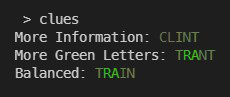
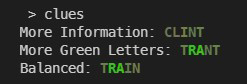
feat: Improved visual presentation, and updated docs to match.

diff --git a/wordleologist.py b/wordleologist.py
@@ -396,7 +396,7 @@ class WordleTrainer:
                 idx_freq = index_freq[i][c] / total_freq[c]
             prediction.extend(
                 [
-                    f"[{cb.rich_format_rgb(cb.color_from_positions(idx_freq, presence_freq))}]",
+                    f"[bold {cb.rich_format_rgb(cb.color_from_positions(idx_freq, presence_freq))}]",
                     c,
                     "[/]",
                 ]
@@ -636,15 +636,16 @@ class WordleTrainer:
         return usr_input
 
     def input_loop(self) -> None:
-        print("\nWordleologist at your service.")
+        rich.print(f"\n[{OutputStyle.GREEN.value}]Wordle[/][{OutputStyle.YELLOW.value}]ologist[/] at your service.")
         command, token = None, None
+        word_cr = ColorRange(min_color=OutputColor.GREEN.value, max_color=(193, 193, 193))
         while command != "exit":
             old_words = len(self.possible_words)
             command, token = self._get_valid_command_input()
             self._handle_command((command, token))
             new_words = len(self.possible_words)
             if new_words < old_words:
-                print(f"\n{new_words} possible words remain.", end="")
+                rich.print(f"\n[{word_cr.rich_format_rgb(word_cr.color_from_position(min(new_words/50, 1.0)))}]{new_words}[/] possible words remain.", end="")
 
 
 def test():

diff --git a/readme.md b/readme.md
@@ -49,7 +49,7 @@ If Wordleologist finds more than one word with the same expected value, it will 
 
 ![An example of suggested clues](https://github.com/phildavis17/wordleologist/blob/main/documentation/images/Clues.jpg)
 
-In the above example, each of the letters in 'CLINT' is a fairly dim color. While these letters are not particularly likely to occur in the target word, Wordleologist has found that getting information about these letters will help include or exclude the most words from the remaining pool.
+In the above example, each of the letters in 'CLINT' is a fairly dim color, though some are showing signs of life. While these letters are not particularly likely to occur in the target word, Wordleologist has found that getting information about these letters will help include or exclude the most words from the remaining pool.
 
 'TRANT' has a 'T' at the beginning and end, suggesting that many of the remaining words have a 'T' in one or both of those positions. This gives you a better chance of getting a green letter, but if they both end up being gray, you'll have missed out on gaining more information by including a different letter.
 
